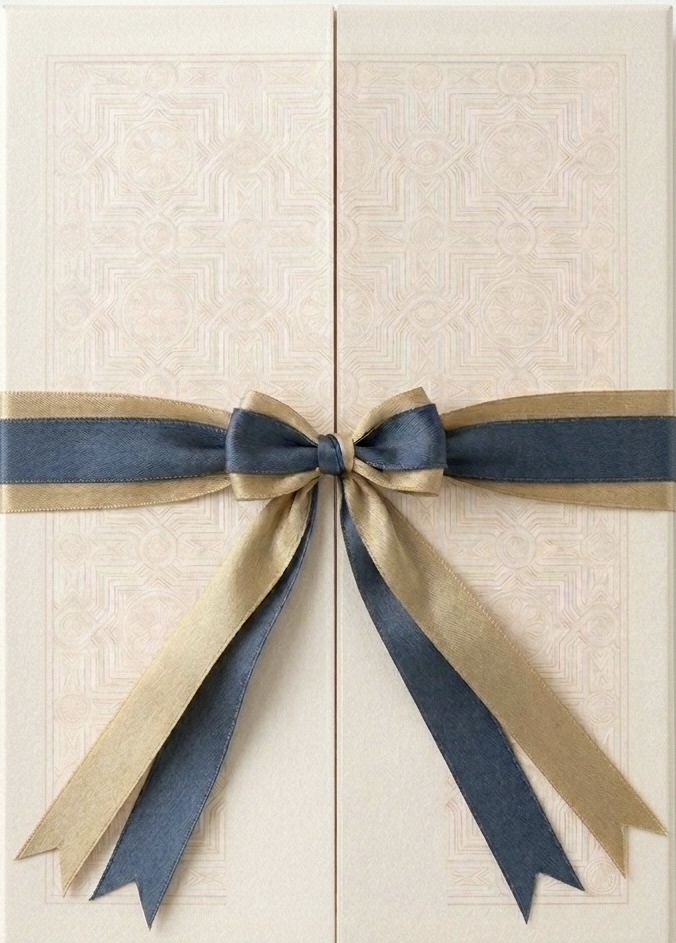
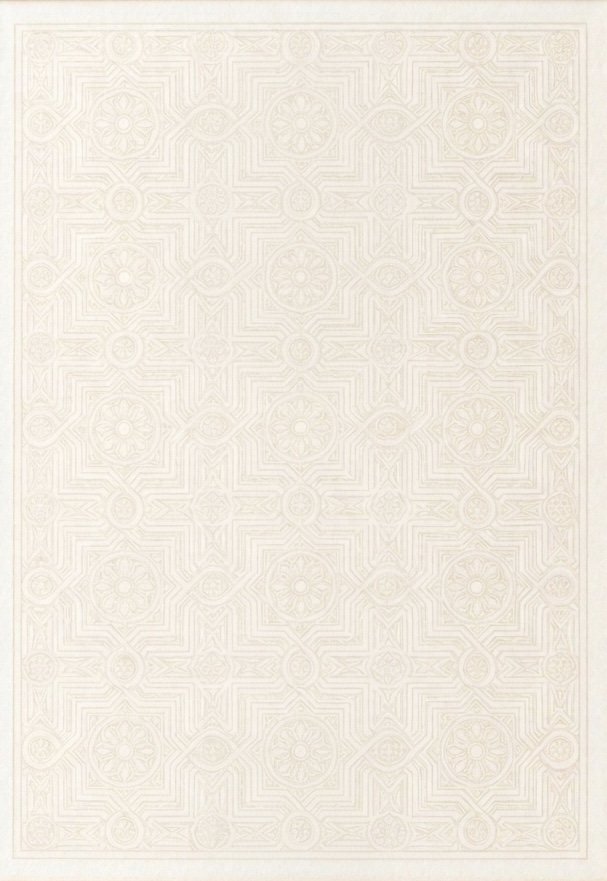
aggiornamento

diff --git a/index.html b/index.html
@@ -96,6 +96,36 @@ body::before {
   background-position: right center;
 }
 
+.right::before,
+.right::after {
+    content: "";
+    position: absolute;
+    top: 0;
+    width: 18px;
+    height: 100%;
+
+    background: linear-gradient(
+        180deg,
+        #e9d8b8 0%,
+        #c4a574 50%,
+        #e9d8b8 100%
+    );
+
+    box-shadow:
+        inset 2px 0 4px rgba(255,255,255,0.3),
+        inset -2px 0 4px rgba(0,0,0,0.2);
+
+    z-index: 15;
+}
+
+.right::before {
+    left: 0px;
+}
+
+.right::after {
+    left: 0px;
+}
+
 
 
   #openBtn {
@@ -284,7 +314,7 @@ body::before {
 
 /* DATA */
 #data{
-  margin-top: 100px;
+  margin-top: 0px;
   font-family: 'Great Vibes', cursive;
   width:100%;
   text-align:center;
@@ -297,7 +327,6 @@ body::before {
 
 .secondo {
   margin-top: 50%;
-padding: 10px;
   display: flex;
   flex-direction: column; /* uno sotto l'altro */
   align-items: center;    /* centra orizzontalmente */
@@ -479,11 +508,9 @@ padding: 10px;
 } 
 
 .anelli-icon {
-
   z-index: 3;
-
-  width: 150px;
-  height: 100px;      /* piccolo bordo, non gigante */
+  width: 250px;
+  height: 300px;      /* piccolo bordo, non gigante */
 }
 
 .chiesa-icon {
@@ -563,7 +590,6 @@ padding: 10px;
 .invitation-card {
     width: 100%;
     max-width: 600px;
-    padding: 60px 40px;
     text-align: center;
     box-sizing: border-box;
 }
@@ -581,8 +607,7 @@ padding: 10px;
        /* Contenitore per l'illustrazione della Basilica */
        .image-container {
            width: 100%;
-           max-width: 150px;
-           margin: 0 auto 35px auto;
+           max-width: 100px;
            overflow: hidden;
        }
        .image-container img {
@@ -653,7 +678,7 @@ padding: 10px;
 
  <img src="anelli.png"  class="anelli-icon" alt="anelli">
 
-  <div class="divider" id="data">10-10-2026 <br>alle ore 10:00</div>
+  <div class="divider" id="data">10-10-2026 - ore 10:00</div>
   </div>
   <div class="secondo">
 
@@ -699,7 +724,15 @@ padding: 10px;
 </div>
 </div>
   <!-- BOTTONI -->
-
+     <div class="divider">
+   <div class="invitation-card"></div>
+   <a href="https://docs.google.com/forms/d/e/1FAIpQLSdnfhsL2lWP8gc5E-1cBpClJa25uI-BtvNkWvB5h8EqveMOqw/viewform?usp=publish-editor"
+       class="action-btn top-btn">
+  <h1 class="section-title">Confermate la vostra prenotazione</h1>
+  <div class="image-container">
+<img src="parteciperai.png" alt="Parteciperai">
+</div>
+</div>
 <div class="action-buttons">
 
     <a href="https://docs.google.com/forms/d/e/1FAIpQLSdnfhsL2lWP8gc5E-1cBpClJa25uI-BtvNkWvB5h8EqveMOqw/viewform?usp=publish-editor"
@@ -752,6 +785,17 @@ padding: 10px;
     const TEN_MIN = 10 * 60 * 1000;
 
     if (opened && time) {
+    // salta effetto libro
+   // book.style.display = "none";
+    document.body.classList.remove("locked");
+    document.body.classList.add("unlocked");
+
+    a4.style.opacity = "1";
+    a4.style.pointerEvents = "auto";
+    }
+
+
+    if (opened ) {
     // salta effetto libro
    // book.style.display = "none";
     document.body.classList.remove("locked");